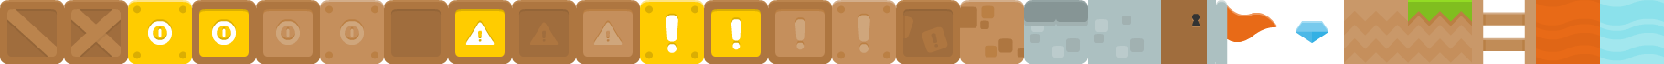
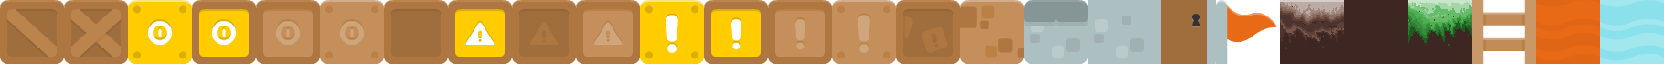
Extruded Tiles
The tiles are now extruded, which removes the flickering tile edge issue that was created when the tile size was changed to 64x64.

Changed region(s): [[0.75, 0.0, 0.9062, 1.0]]

diff --git a/code/base.js b/code/base.js
@@ -85,7 +85,7 @@ function create ()
     background.scrollFactorX = 0;
     
     //Draw tileset/objects
-    tileset = this.map.addTilesetImage("tilesheet-extruded","tiles");
+    tileset = this.map.addTilesetImage("tilesheet-extruded", "tiles", 64, 64, 1, 2);
     mapLayerBG = this.map.createStaticLayer("Layer_bg", tileset, 0, 0);
     mapLayer = this.map.createStaticLayer("Layer", tileset, 0, 0);
     
